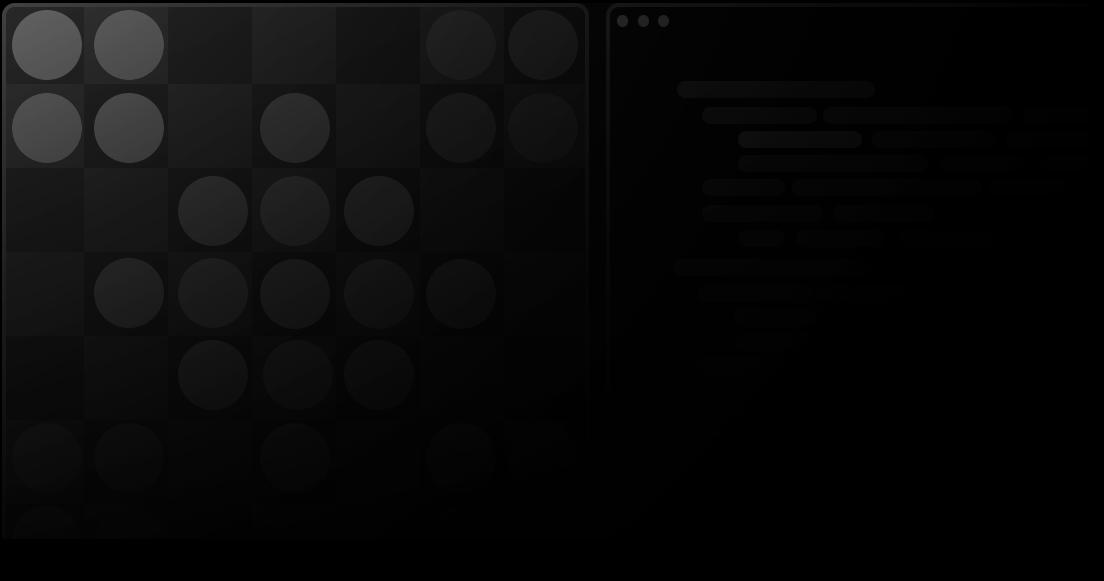
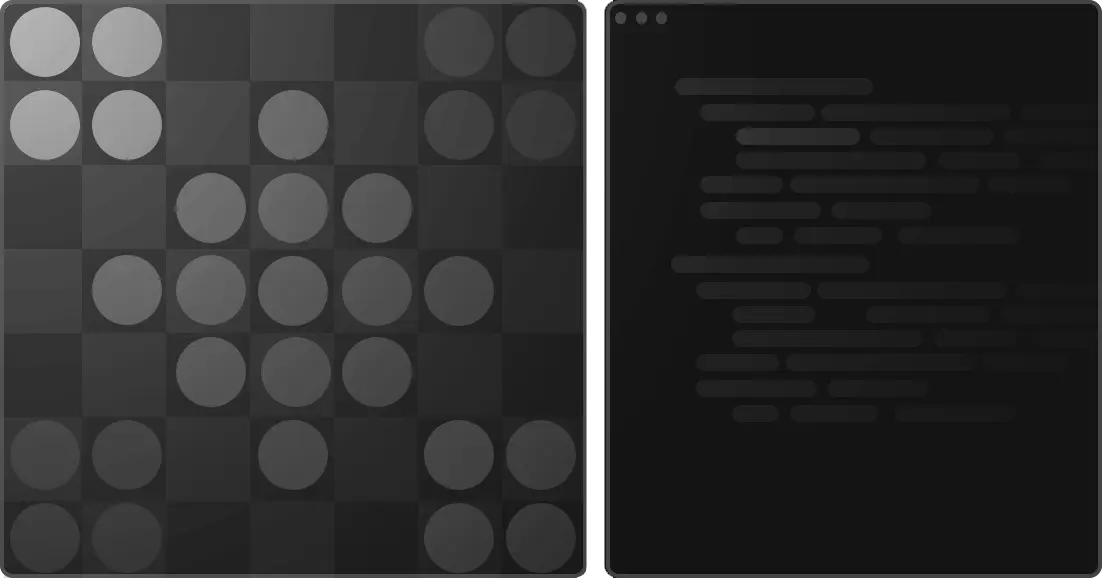
overhauled project card images

diff --git a/src/components/ProjectCard.tsx b/src/components/ProjectCard.tsx
@@ -26,19 +26,21 @@ const ProjectCard = ({ project, className }: Props) => {
                         src={`/icons/${project.key}.ico`}
                         fill
                         alt="website icon"
-                        className="aspect-square translate-y-[-50%] opacity-[1%] blur-[100px] transition-opacity duration-1000 ease-out-expo group-hover:opacity-25 group-focus-visible:opacity-25"
+                        className="ease-out-expo -z-10 aspect-square translate-y-[-50%] opacity-[1%] blur-[100px] transition-opacity duration-1000 group-hover:opacity-25 group-focus-visible:opacity-25"
                         quality={10}
                     />
-                    <Image
-                        src={`/${project.key}.webp`}
-                        fill
-                        alt="Ghost Project GUI Outline"
-                        className="object-top-left linear-mask z-10 object-scale-down pl-5 pt-5 mix-blend-screen drop-shadow-lg transition-all"
-                        priority
-                    />
+                    <div className="linear-mask-2 h-full">
+                        <Image
+                            src={`/${project.key}.webp`}
+                            fill
+                            alt="Ghost Project GUI Outline"
+                            className="object-top-left linear-mask z-10 object-contain p-5 pt-0 mix-blend-screen transition-all"
+                            priority
+                        />
+                    </div>
                 </div>
                 <div className="h-5 overflow-hidden pl-2 text-muted-foreground">
-                    <div className="-translate-y-6 transition-transform duration-500 ease-out-expo group-hover:translate-y-0 group-focus-visible:translate-y-0">
+                    <div className="ease-out-expo -translate-y-6 transition-transform duration-500 group-hover:translate-y-0 group-focus-visible:translate-y-0">
                         <PrimaryTech title={project.primaryTech} />
                         <p>{project.year}</p>
                     </div>

diff --git a/src/app/globals.css b/src/app/globals.css
@@ -140,8 +140,59 @@ body.overflow-hidden {
     overflow: hidden;
 }
 
+@property --mask-1 {
+    syntax: "<percentage>";
+    initial-value: 0%;
+    inherits: false;
+}
+
+@property --mask-2 {
+    syntax: "<percentage>";
+    initial-value: 80%;
+    inherits: false;
+}
+
+@property --mask-3 {
+    syntax: "<percentage>";
+    initial-value: 0%;
+    inherits: false;
+}
+
+@property --mask-4 {
+    syntax: "<percentage>";
+    initial-value: 90%;
+    inherits: false;
+}
+
+@keyframes mask-gradient-1 {
+    from {
+        --mask-1: 0%;
+        --mask-2: 80%;
+    }
+    to {
+        --mask-1: 50%;
+        --mask-2: 150%;
+    }
+}
+
+.group:hover .linear-mask {
+    animation: mask-gradient-1 5s cubic-bezier(0.075, 0.82, 0.165, 1) forwards;
+}
+
 .linear-mask {
-    mask-image: linear-gradient(to bottom, black 0%, transparent 100%);
+    mask-image: radial-gradient(
+        ellipse at top left,
+        rgb(0, 0, 0, 1) var(--mask-1),
+        transparent var(--mask-2)
+    );
+}
+
+.linear-mask-2 {
+    mask-image: linear-gradient(
+        to bottom,
+        rgb(0, 0, 0, 1) var(--mask-3),
+        transparent var(--mask-4)
+    );
 }
 
 .scroll-mask {
